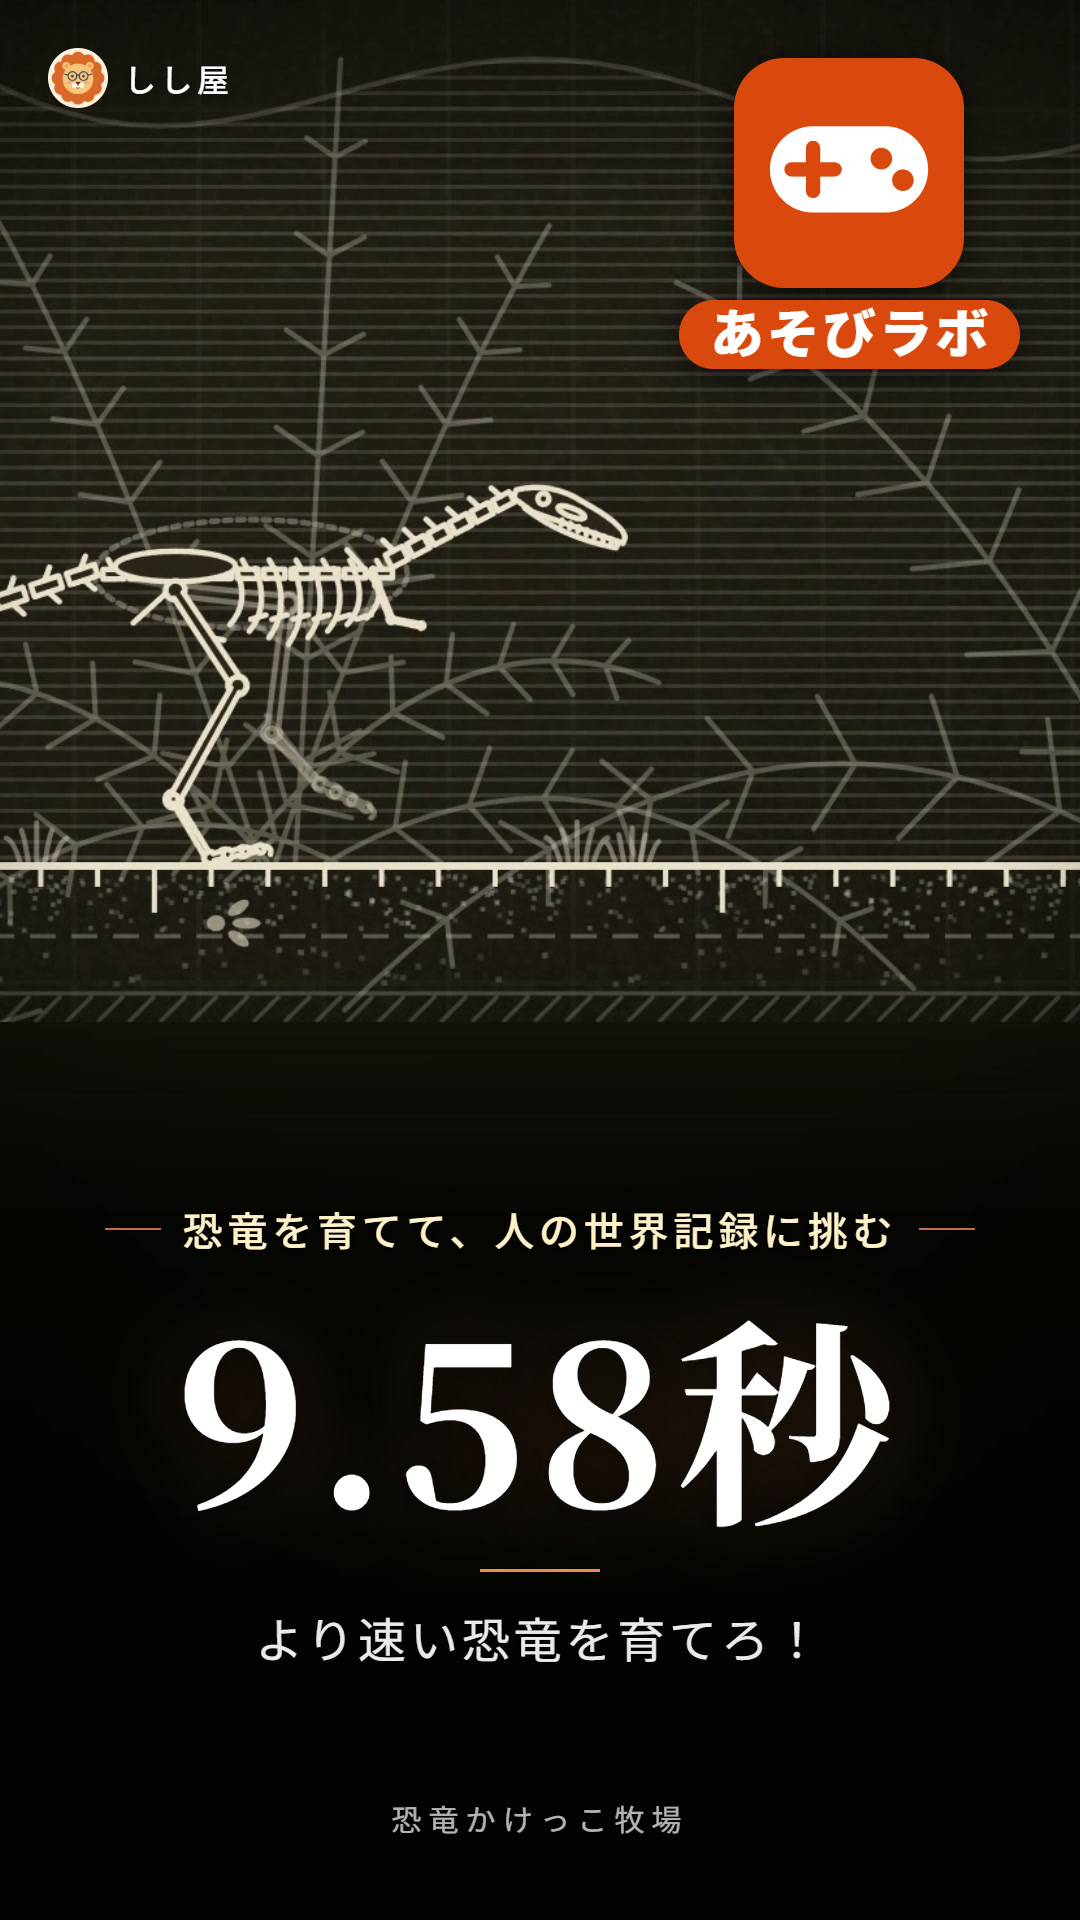
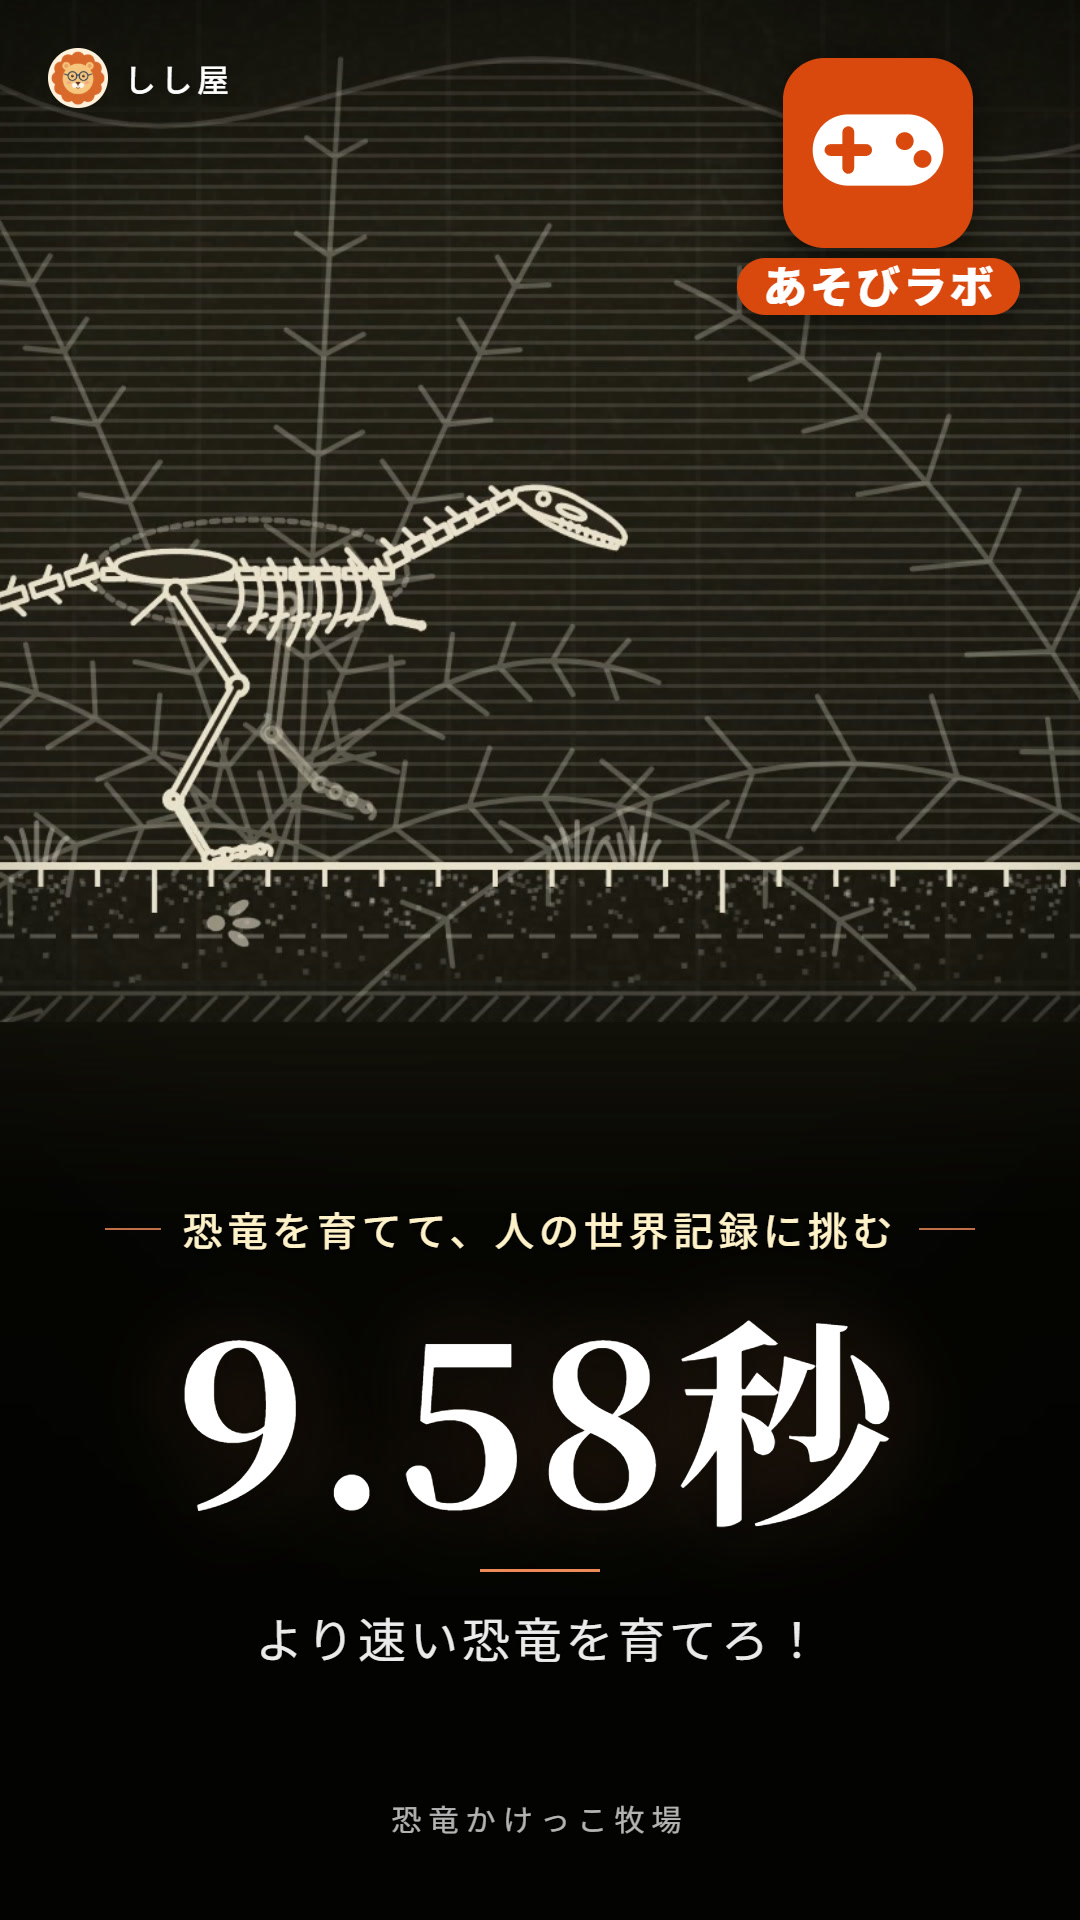
紹介動画: ショートのサムネイルのあそびラボの札を一回り小さく（230 → 190px、位置はそのまま。ユーザー）

Changed region(s): [[0.6111, 0.0312, 0.9472, 0.2188]]

diff --git a/_dev/promo/short-thumb.html b/_dev/promo/short-thumb.html
@@ -52,12 +52,12 @@
   /* あそびラボの札（2026-10-19 ユーザー「人目であそびラボっぽいとわかる」「とおめでもゲーム系だとわかりやすい」）: 右上に、入口のファビコンと同じ
      オレンジの角丸＋白いゲームのコントローラーを大きく、下に「あそびラボ」。左上はチャンネル（しし屋のライオン）だけにする */
   /* 大きさと位置は横長と同じ割合（アイコンの幅に対して右の余白 0.27・上の余白 0.25・字 0.23。横長の上はユーザーの指示で 2px 下げて 28px）。2026-10-19 ユーザー「もうすこし右上に、横長と似た感じに」 */
-  #asobi { position: absolute; right: 60px; top: 58px; display: flex; flex-direction: column; align-items: center; gap: 12px;
+  #asobi { position: absolute; right: 60px; top: 58px; display: flex; flex-direction: column; align-items: center; gap: 10px;
     filter: drop-shadow(0 6px 18px rgba(0,0,0,0.55)); }
-  #asobi svg { width: 230px; height: 230px; display: block; }
+  #asobi svg { width: 190px; height: 190px; display: block; }   /* 2026-10-19 ユーザー「もう一回り小さく」（230 → 190。位置はそのまま） */
   /* 字は目で見てまんなかに（Noto Sans JP の「あそびラボ」は、line-height 1 だとインクが 0.05em 下に寄る → 下の余白を 0.14em 多くして、
      インクのまんなかを箱のまんなかより 0.02em 上に。右は字間 0.06em が余るので、そのぶん右の余白を小さく） */
-  #asobi b { font-size: 53px; font-weight: 800; letter-spacing: 0.06em; line-height: 1; color: #fff; background: #d9480f; border-radius: 999px; padding: 0.08em 0.54em 0.22em 0.6em; }
+  #asobi b { font-size: 44px; font-weight: 800; letter-spacing: 0.06em; line-height: 1; color: #fff; background: #d9480f; border-radius: 999px; padding: 0.08em 0.54em 0.22em 0.6em; }
   body.wide #asobi { right: 30px; top: 28px; gap: 6px; }
   body.wide #asobi svg { width: 112px; height: 112px; }
   body.wide #asobi b { font-size: 26px; }
